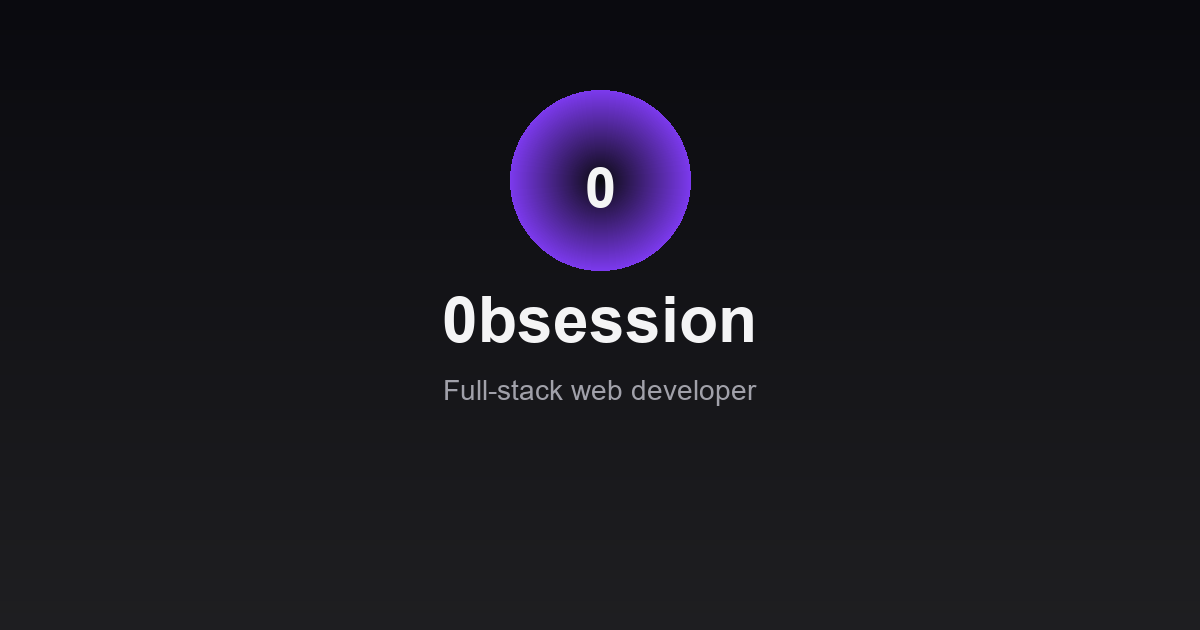
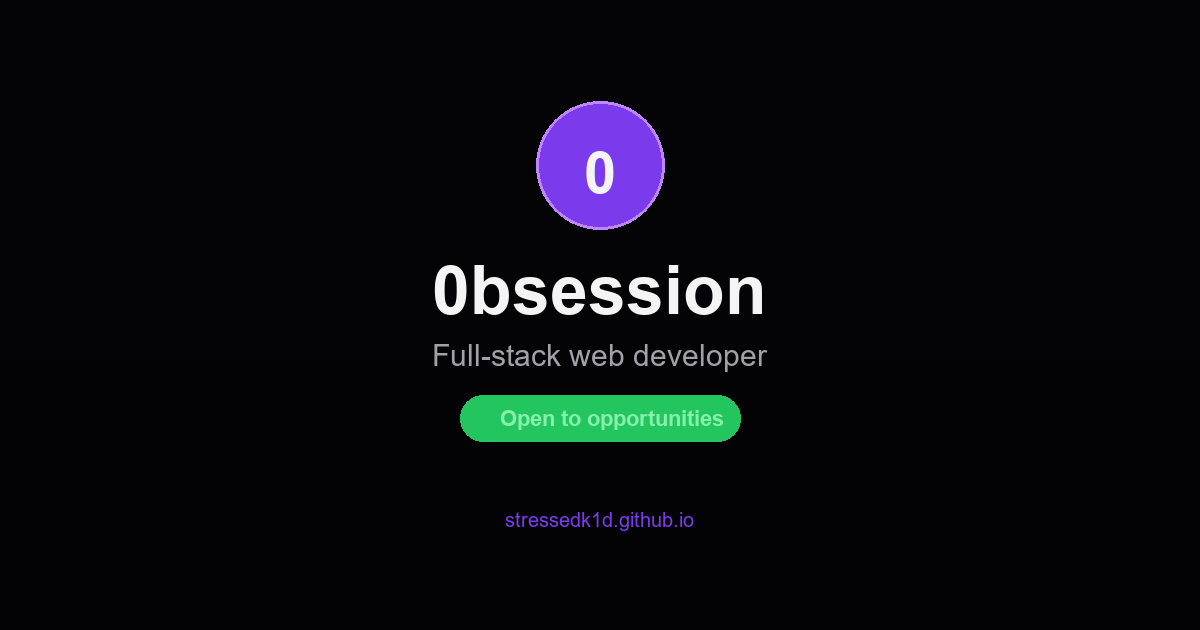
Remove custom domain, deploy site to GitHub Pages

Changed region(s): [[0.0, 0.7841, 1.0, 1.0], [0.3392, 0.1206, 0.6475, 0.7238]]

diff --git a/index.html b/index.html
@@ -57,7 +57,11 @@
         <img src="https://avatars.githubusercontent.com/u/181460099?v=4" alt="0bsession">
       </div>
       <h1 class="name neon-text neon-pulse">0bsession</h1>
-      <p class="bio" data-i18n="bio">Начинающий full-stack web-разработчик</p>
+      <p class="bio" data-i18n="bio">Начинающий full-stack web-разработчик · открыт к предложениям</p>
+      <span class="status-badge">
+        <span class="status-badge__dot" aria-hidden="true"></span>
+        <span data-i18n="statusOpen">Открыт к предложениям</span>
+      </span>
 
       <div class="hero-cta">
         <a class="btn btn--neon" href="#projects" data-i18n="heroProjects">Смотреть проекты</a>
@@ -72,8 +76,10 @@
 
     <section class="section reveal" id="about">
       <h2 class="section-title" data-i18n="aboutTitle">Обо мне</h2>
-      <div class="card glass">
-        <p data-i18n="aboutText">Учусь full-stack разработке.</p>
+      <div class="card glass about-card">
+        <p data-i18n="aboutText1">Я начинающий full-stack разработчик.</p>
+        <p data-i18n="aboutText2">Ищу стажировку или junior-позицию.</p>
+        <p data-i18n="aboutText3">Открыт к удалёнке и офису.</p>
       </div>
     </section>
 
@@ -91,6 +97,14 @@
       <div class="skills-grid">
         <div class="card glass">
           <h3 class="skills-group__title" data-i18n="skillFrontend">Frontend</h3>
+          <ul class="stack-icons" aria-label="Frontend">
+            <li><img src="https://cdn.jsdelivr.net/npm/simple-icons@v11/icons/html5.svg" alt="HTML" width="24" height="24" loading="lazy"></li>
+            <li><img src="https://cdn.jsdelivr.net/npm/simple-icons@v11/icons/css.svg" alt="CSS" width="24" height="24" loading="lazy"></li>
+            <li><img src="https://cdn.jsdelivr.net/npm/simple-icons@v11/icons/javascript.svg" alt="JavaScript" width="24" height="24" loading="lazy"></li>
+            <li><img src="https://cdn.jsdelivr.net/npm/simple-icons@v11/icons/typescript.svg" alt="TypeScript" width="24" height="24" loading="lazy"></li>
+            <li><img src="https://cdn.jsdelivr.net/npm/simple-icons@v11/icons/react.svg" alt="React" width="24" height="24" loading="lazy"></li>
+            <li><img src="https://cdn.jsdelivr.net/npm/simple-icons@v11/icons/nextdotjs.svg" alt="Next.js" width="24" height="24" loading="lazy"></li>
+          </ul>
           <ul class="skill-bars">
             <li><span>HTML / CSS</span><div class="bar-row"><div class="bar"><div class="bar__fill" data-width="90" style="--pct: 90%"></div></div><span class="bar__pct">90%</span></div></li>
             <li><span>JavaScript</span><div class="bar-row"><div class="bar"><div class="bar__fill" data-width="85" style="--pct: 85%"></div></div><span class="bar__pct">85%</span></div></li>
@@ -100,6 +114,11 @@
         </div>
         <div class="card glass">
           <h3 class="skills-group__title" data-i18n="skillBackend">Backend</h3>
+          <ul class="stack-icons" aria-label="Backend">
+            <li><img src="https://cdn.jsdelivr.net/npm/simple-icons@v11/icons/python.svg" alt="Python" width="24" height="24" loading="lazy"></li>
+            <li><img src="https://cdn.jsdelivr.net/npm/simple-icons@v11/icons/fastapi.svg" alt="REST API" width="24" height="24" loading="lazy"></li>
+            <li><img src="https://cdn.jsdelivr.net/npm/simple-icons@v11/icons/postgresql.svg" alt="PostgreSQL" width="24" height="24" loading="lazy"></li>
+          </ul>
           <ul class="skill-bars">
             <li><span>Python</span><div class="bar-row"><div class="bar"><div class="bar__fill" data-width="80" style="--pct: 80%"></div></div><span class="bar__pct">80%</span></div></li>
             <li><span>REST API</span><div class="bar-row"><div class="bar"><div class="bar__fill" data-width="78" style="--pct: 78%"></div></div><span class="bar__pct">78%</span></div></li>
@@ -108,6 +127,12 @@
         </div>
         <div class="card glass">
           <h3 class="skills-group__title" data-i18n="skillTools">Инструменты</h3>
+          <ul class="stack-icons" aria-label="Tools">
+            <li><img src="https://cdn.jsdelivr.net/npm/simple-icons@v11/icons/git.svg" alt="Git" width="24" height="24" loading="lazy"></li>
+            <li><img src="https://cdn.jsdelivr.net/npm/simple-icons@v11/icons/github.svg" alt="GitHub" width="24" height="24" loading="lazy"></li>
+            <li><img src="https://cdn.jsdelivr.net/npm/simple-icons@v11/icons/docker.svg" alt="Docker" width="24" height="24" loading="lazy"></li>
+            <li><img src="https://cdn.jsdelivr.net/npm/simple-icons@v11/icons/figma.svg" alt="Figma" width="24" height="24" loading="lazy"></li>
+          </ul>
           <ul class="skill-bars">
             <li><span>Git / GitHub</span><div class="bar-row"><div class="bar"><div class="bar__fill" data-width="85" style="--pct: 85%"></div></div><span class="bar__pct">85%</span></div></li>
             <li><span>Docker</span><div class="bar-row"><div class="bar"><div class="bar__fill" data-width="70" style="--pct: 70%"></div></div><span class="bar__pct">70%</span></div></li>
@@ -198,6 +223,7 @@
             <ul class="project-tags"><li>TypeScript</li><li>Web</li></ul>
             <div class="project-actions">
               <a class="project-btn project-btn--neon" href="projects/panorama.html" data-i18n="details">Подробнее</a>
+              <a class="project-btn project-btn--ghost hidden" id="panorama-demo" href="#" target="_blank" rel="noopener noreferrer" data-i18n="demo">Демо ↗</a>
               <a class="project-btn project-btn--ghost" href="https://github.com/stressedk1d/panorama" target="_blank" rel="noopener noreferrer" data-i18n="code">Код ↗</a>
             </div>
           </div>

diff --git a/i18n.js b/i18n.js
@@ -1,8 +1,8 @@
 window.I18N = {
   ru: {
-    metaDescription: "0bsession — начинающий full-stack web-разработчик",
-    ogDescription: "Начинающий full-stack web-разработчик",
-    bio: "Начинающий full-stack web-разработчик",
+    metaDescription: "0bsession — full-stack разработчик, открыт к предложениям",
+    ogDescription: "Full-stack разработчик · открыт к стажировке и junior-позициям",
+    bio: "Начинающий full-stack web-разработчик · открыт к предложениям",
     navAbout: "Обо мне",
     navSkills: "Навыки",
     navLinks: "Ссылки",
@@ -36,8 +36,13 @@ window.I18N = {
     aboutTitle: "Обо мне",
     skillsTitle: "Навыки подробнее",
     rolesTitle: "Роль в проектах",
-    aboutText:
-      "Учусь full-stack разработке: от вёрстки и фронтенда до бэкенда и баз данных. Сейчас работаю над дипломным проектом Vogue Way — маркетплейсом модной одежды.",
+    aboutText1:
+      "Я начинающий full-stack разработчик. Делаю проекты от интерфейса до API и баз данных — сейчас в фокусе дипломный маркетплейс Vogue Way с AI-поиском, корзиной и заказами.",
+    aboutText2:
+      "Ищу стажировку или junior-позицию: frontend, backend или full-stack. Готов учиться, брать задачи и быстро вливаться в команду.",
+    aboutText3:
+      "Открыт к удалёнке и офису. Если ищете мотивированного разработчика — напишите в Telegram или на почту.",
+    statusOpen: "Открыт к предложениям",
     quote: "И больно думать, едет крыша. Я кричу, но ты не слышишь.",
     githubDesc: "github.com/stressedk1d",
     telegramDesc: "@phaqueu3",
@@ -87,9 +92,9 @@ window.I18N = {
     panoramaFeature3: "Современный тёмный UI",
   },
   en: {
-    metaDescription: "0bsession — aspiring full-stack web developer",
-    ogDescription: "Aspiring full-stack web developer",
-    bio: "Aspiring full-stack web developer",
+    metaDescription: "0bsession — full-stack developer, open to opportunities",
+    ogDescription: "Full-stack developer · open to internships and junior roles",
+    bio: "Aspiring full-stack web developer · open to opportunities",
     navAbout: "About",
     navSkills: "Skills",
     navLinks: "Links",
@@ -123,8 +128,13 @@ window.I18N = {
     aboutTitle: "About me",
     skillsTitle: "Skills in detail",
     rolesTitle: "Project roles",
-    aboutText:
-      "Learning full-stack development — from layout and frontend to backend and databases. Currently building Vogue Way, a fashion marketplace thesis project.",
+    aboutText1:
+      "I'm an aspiring full-stack developer building projects from UI to API and databases — currently focused on Vogue Way, a fashion marketplace thesis with AI search, cart, and checkout.",
+    aboutText2:
+      "Looking for an internship or junior role: frontend, backend, or full-stack. Eager to learn, take ownership, and integrate into a team quickly.",
+    aboutText3:
+      "Open to remote and on-site. If you're looking for a motivated developer — reach out via Telegram or email.",
+    statusOpen: "Open to opportunities",
     quote: "It hurts to think, the roof is caving in. I scream, but you don't hear.",
     githubDesc: "github.com/stressedk1d",
     telegramDesc: "@phaqueu3",

diff --git a/styles.css b/styles.css
@@ -330,6 +330,44 @@ html.js .reveal.is-visible {
   max-width: 380px;
 }
 
+.status-badge {
+  display: inline-flex;
+  align-items: center;
+  gap: 0.5rem;
+  margin-top: 0.15rem;
+  padding: 0.45rem 0.95rem;
+  border-radius: 999px;
+  font-size: 0.78rem;
+  font-weight: 600;
+  color: #86efac;
+  border: 1px solid rgba(34, 197, 94, 0.35);
+  background: rgba(34, 197, 94, 0.1);
+  box-shadow: 0 0 20px rgba(34, 197, 94, 0.12);
+}
+
+.status-badge__dot {
+  width: 8px;
+  height: 8px;
+  border-radius: 50%;
+  background: #22c55e;
+  box-shadow: 0 0 10px #22c55e;
+  animation: statusPulse 2s ease-in-out infinite;
+}
+
+@keyframes statusPulse {
+  0%, 100% { opacity: 1; transform: scale(1); }
+  50% { opacity: 0.65; transform: scale(0.92); }
+}
+
+.about-card p + p {
+  margin-top: 0.85rem;
+}
+
+.about-card p {
+  color: var(--text-muted);
+  line-height: 1.65;
+}
+
 .hero-cta {
   display: flex;
   flex-wrap: wrap;
@@ -456,6 +494,31 @@ html.js .reveal.is-visible {
   font-size: 0.9rem;
   font-weight: 600;
   margin-bottom: 0.85rem;
+}
+
+.stack-icons {
+  display: flex;
+  flex-wrap: wrap;
+  gap: 0.6rem;
+  list-style: none;
+  margin-bottom: 1rem;
+  padding-bottom: 0.9rem;
+  border-bottom: 1px solid rgba(255, 255, 255, 0.06);
+}
+
+.stack-icons img {
+  display: block;
+  width: 1.65rem;
+  height: 1.65rem;
+  opacity: 0.9;
+  transition: transform 0.2s, opacity 0.2s, filter 0.2s;
+  filter: brightness(0) invert(1) opacity(0.82);
+}
+
+.stack-icons li:hover img {
+  transform: translateY(-2px) scale(1.12);
+  opacity: 1;
+  filter: brightness(0) invert(1) sepia(1) saturate(4) hue-rotate(230deg);
 }
 
 .skill-bars {
@@ -929,6 +992,7 @@ html.js .bar__fill.is-animated {
   .background::after { animation: none; }
   .side-nav__link:hover,
   .side-nav__link.is-active { transform: none; }
+  .status-badge__dot { animation: none; }
 }
 
 @media (pointer: coarse) {

diff --git a/script.js b/script.js
@@ -70,12 +70,17 @@ function initEmail() {
 }
 
 function initDemo() {
-  const demoUrl = config.projects?.marketplace?.demoUrl;
-  const demoBtn = document.getElementById("marketplace-demo");
-  if (!demoUrl || !demoBtn) return;
+  const demos = [
+    ["marketplace-demo", config.projects?.marketplace?.demoUrl],
+    ["panorama-demo", config.projects?.panorama?.demoUrl],
+  ];
 
-  demoBtn.href = demoUrl;
-  demoBtn.classList.remove("hidden");
+  demos.forEach(([id, url]) => {
+    const btn = document.getElementById(id);
+    if (!btn || !url) return;
+    btn.href = url;
+    btn.classList.remove("hidden");
+  });
 }
 
 function scrollToSection(link) {

diff --git a/projects/panorama.html b/projects/panorama.html
@@ -32,6 +32,7 @@
         <p class="bio" data-i18n="panoramaPageDesc">Web-проект с панорамным просмотром</p>
         <ul class="project-tags"><li>TypeScript</li><li>Web</li></ul>
         <div class="project-actions">
+          <a class="project-btn project-btn--neon hidden" id="panorama-demo" href="#" target="_blank" rel="noopener noreferrer" data-i18n="demo">Демо ↗</a>
           <a class="project-btn project-btn--ghost" href="https://github.com/stressedk1d/panorama" target="_blank" rel="noopener noreferrer" data-i18n="code">Код ↗</a>
         </div>
       </div>

diff --git a/config.js b/config.js
@@ -6,5 +6,8 @@ window.SITE_CONFIG = {
     marketplace: {
       demoUrl: "https://vogueway.ru/",
     },
+    panorama: {
+      demoUrl: "",
+    },
   },
 };

diff --git a/sw.js b/sw.js
@@ -1,4 +1,4 @@
-const CACHE = "0bsession-v8";
+const CACHE = "0bsession-v9";
 const STALE_ASSETS = ["/images/background.jpg"];
 const ASSETS = [
   "/",
